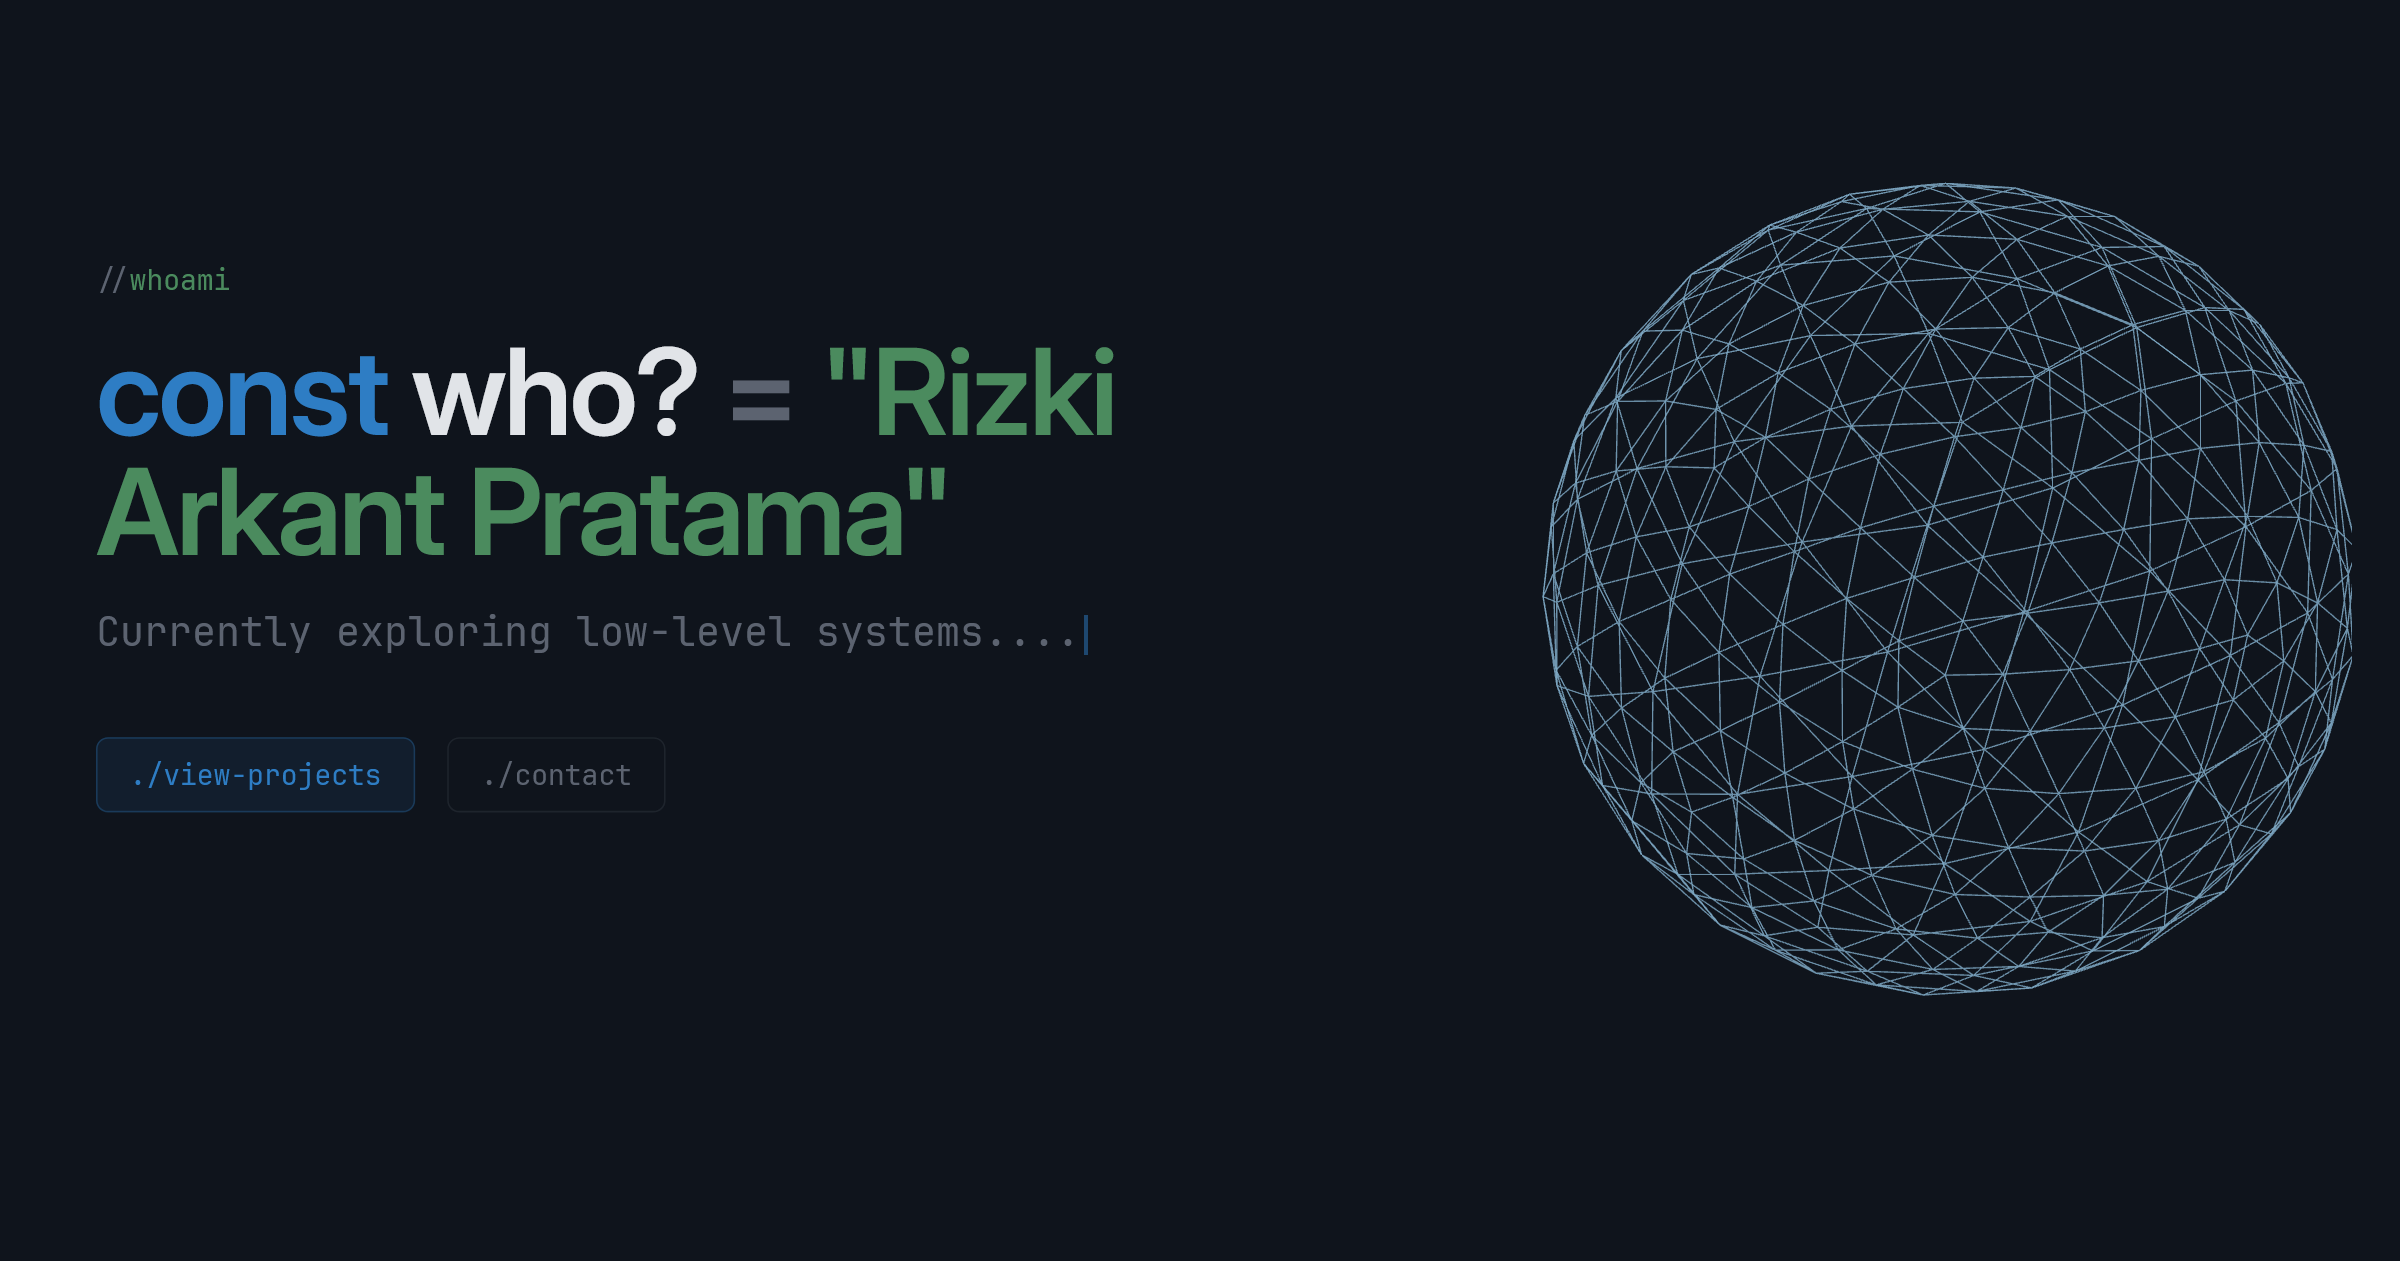
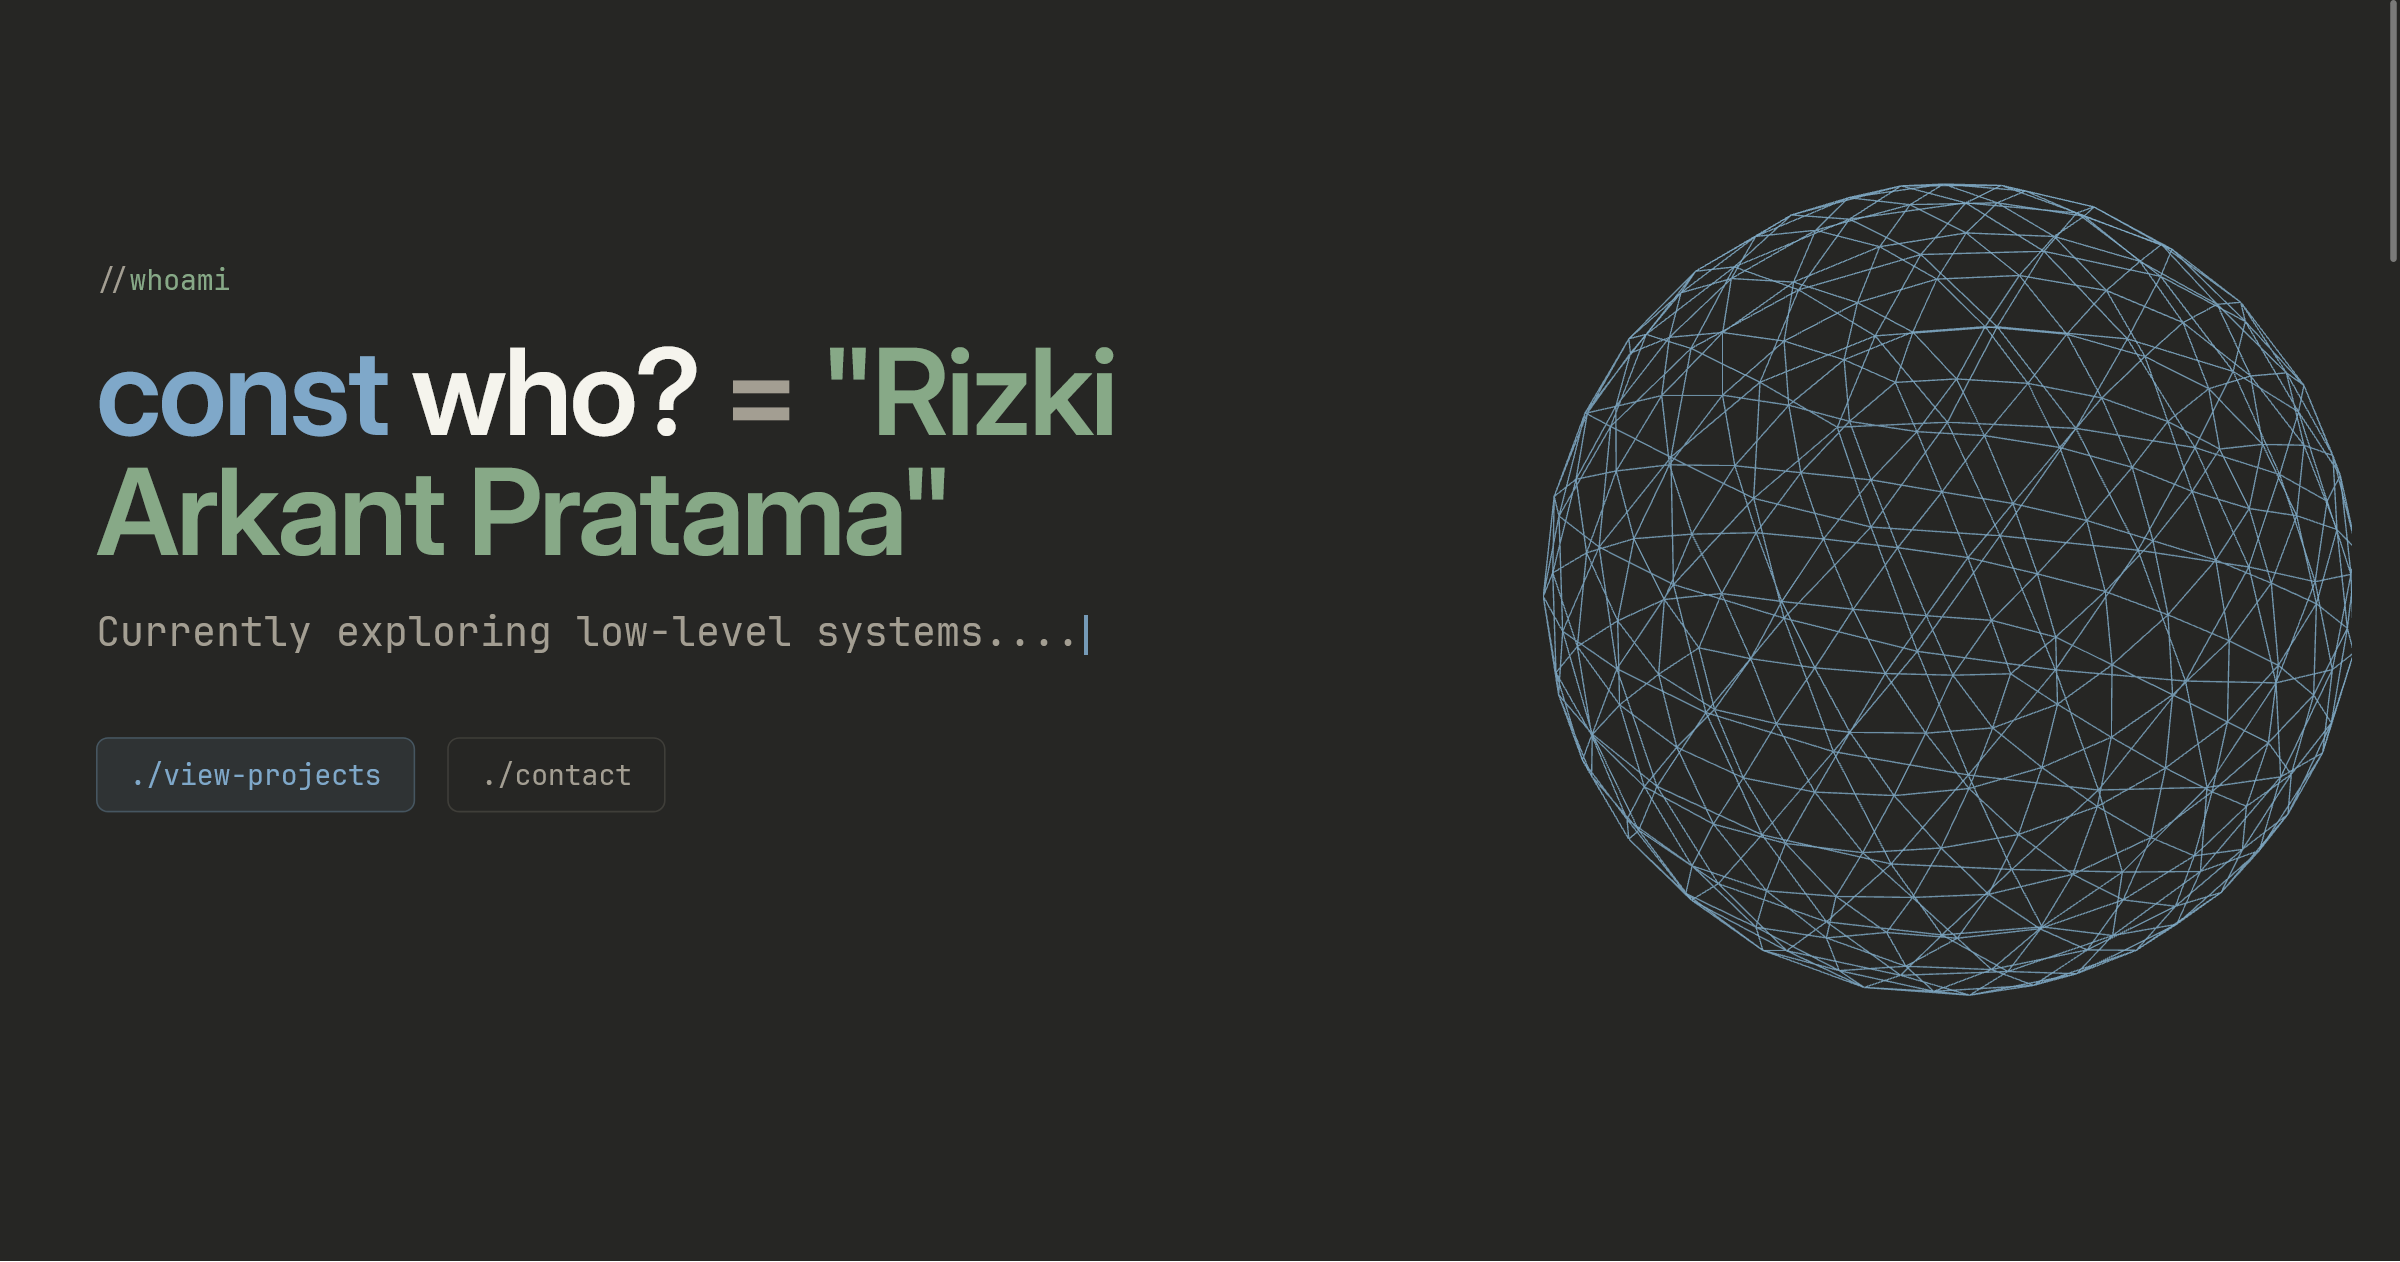
yeay

diff --git a/src/routes/app.css b/src/routes/app.css
@@ -62,45 +62,42 @@
 }
 
 :root {
-  --bg: #FAFAFA;
+  /* warm paper, bukan pure white — ciri khas Claude UI */
+  --bg: #FAF9F5;
   --surface: #FFFFFF;
-  --text: #1A1D23;
-  --text-muted: #6B7280;
+  --text: #2D2A26;
+  --text-muted: #78756E;
 
-  --accent-keyword: #9333B5;
-  --accent-string: #4B8B5E;
-  --accent-fn: #2E7DC4;
-  --accent-variable: #C15B45;
-  --accent-number: #A8752E;
+  /* signature Claude orange sebagai keyword, digelapkan biar kontras di atas putih */
+  --accent-keyword: #C2694D;
+  --accent-string: #5F8567;
+  --accent-fn: #4F7C99;
+  --accent-variable: #B36B54;
+  --accent-number: #A08344;
 
-  --nav-accent-fn: #2E7DC4;
-  --nav-accent-keyword: #9333B5;
-
-  --nav-icon: #4A5262;      /* light mode: sedikit lebih gelap dari default agar kebaca di atas putih */
-  --nav-accent-fn: #2E7DC4;
-  --nav-accent-keyword: #9333B5;
+  --nav-accent-fn: #4F7C99;
+  --nav-accent-keyword: #C2694D;
+  --nav-icon: #8A8579;
 }
 
 .dark {
- --bg: #0F141C;
-  --surface: #0A0D12;
-  --text: #E1E4E8;
-  --text-muted: #5C6370;
+  /* warm dark charcoal, bukan pure black/navy — ciri khas Claude dark mode */
+  --bg: #262624;
+  --surface: #30302E;
+  --text: #F5F4ED;
+  --text-muted: #A39E92;
 
-  --accent-keyword: #9333B5;
-  --accent-string: #4B8B5E;
-  --accent-fn: #2E7DC4;
-  --accent-variable: #C15B45;
-  --accent-number: #A8752E;
+  /* Claude orange versi terang buat kontras di gelap */
+  --accent-keyword: #D97757;
+  --accent-string: #87A987;
+  --accent-fn: #7FA8C9;
+  --accent-variable: #D18B6E;
+  --accent-number: #C9A868;
 
-  --nav-accent-fn: #61AFEF;
-  --nav-accent-keyword: #C678DD;
-
-   --nav-icon: #8B93A3;      /* dark mode: signifikan lebih terang dari text-muted (#5C6370) */
-  --nav-accent-fn: #61AFEF;
-  --nav-accent-keyword: #C678DD;
+  --nav-accent-fn: #7FA8C9;
+  --nav-accent-keyword: #D97757;
+  --nav-icon: #A39E92;
 }
-
 
 body {
   background-color: var(--color-bg);
@@ -108,5 +105,3 @@ body {
   font-family: var(--font-sans);
   transition: background-color 0.3s ease, color 0.3s ease;
 }
-
-

diff --git a/src/routes/+page.svelte b/src/routes/+page.svelte
@@ -8,7 +8,7 @@
 
   const title = `${cvData.name} — ${cvData.role}`;
   const description = cvData.tagline;
-  const url = 'https://arkant-sh.vercel.app'; // sesuaikan domain final
+  const url = 'https://arkant-sh.vercel.app';
 </script>
 
 <svelte:head>
